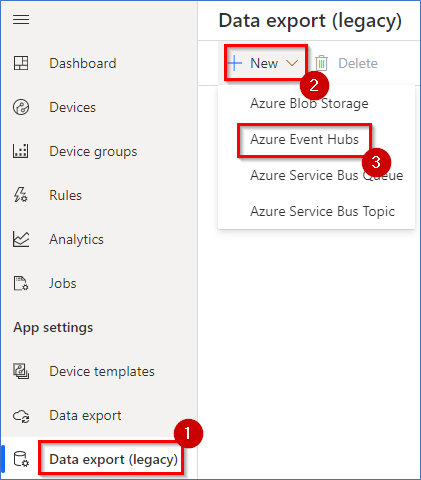
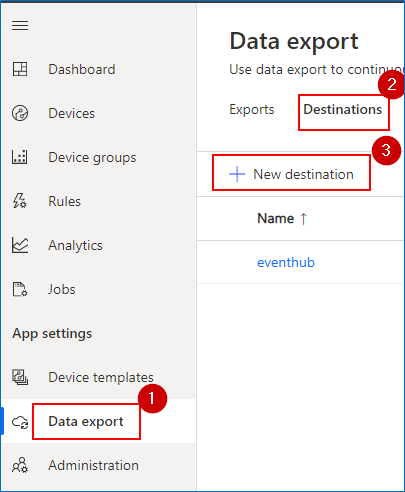
Updated readme-shell healthcare

diff --git a/HealthCare/Readme-shell.md b/HealthCare/Readme-shell.md
@@ -225,37 +225,63 @@
 
     ![copy device.](media/copy-device.png)
 	
-11.	**Close** the device popup and click on data export(legacy) tab.
-12.	**Click** New.
-13.	**Click** Azure Event Hubs.
+11.	**Open** Azure Portal.
+12.	**Search** “evh”. **Select** the event hub starting with name “evh-namespace”.
+
+	![select eventhub.](media/evh-selection.png)
+	 
+13.	**Open** Shared access policies tab under Settings menu.
+14.	**Select**  RootManageSharedAccessKey.
+
+    ![open access policies.](media/evh-access-policy.png)
+	
+15.	**Copy** Connection string-primary key and save it future use.
+
+	![copy connection string.](media/evh-connection-string.png)
+
+16.	**Close** the device popup **click** on data export tab.
+17.	**Click** Destinations and **select** New Destinations.
 
     ![data export.](media/data-export.png)
 	
-14.	**Select** Event hub namespace named ‘evh-namespace…’ from the dropdown.
-15.	**Select** Event hub name from the dropdown.
-16.	**Turn off** Devices and Device template features.
-17.	**Click** Save.
+18.	**Enter** eventhub as destination name.
+19.	**Select** Azure Event Hubs as Destination type.
+20.	**Paste** connection string saved in step 15 as connection string.
+21.	**Enter** “evh-iomtconnector-dev” as Event Hub.
+22.	**Click** Save.
 
-    ![data export2.](media/data-export2.png)
+	![destination.](media/destination.png)
 	
-18.	**Click** Dashboard.
-19.	**Click** Edit.
+23.	**Close** the device popup **click** on data export tab.
+24.	**Click** Exports and **select** New Exports .
+	
+	![data-export2.](media/data-export2.png)
+	
+25.	**Enter** eventhub as destination name.
+26.	**Select** Telemetry as Type of data to export.
+27.	**Select** eventhub as Destination from drop down.
+28.	**Click** Save.
+
+	![export.](media/export-tab.png)
+	
+29.	**Click** Dashboard.
+30.	**Click** Edit.
 
     ![device dashboard.](media/device-dashboard.png)
 
-20.	**Click** on configure button of Blood Pressure chart.
-21.	**Select** Device group from the dropdown.
-22.	**Select** Device Name from the dropdown.
-23.	**Click** “+ Capability” button.
-24.	**Select** systolicPressure kpi.
-25.	**Click** “+ Capability” button again.
-26.	**Select** distolicPressure kpi.
-27.	**Click** update.
+31.	**Click** on configure button of Blood Pressure chart.
+32.	**Select** Device group from the dropdown.
+33.	**Select** Device Name from the dropdown.
+34.	**Click** “+ Capability” button.
+35.	**Select** systolicPressure kpi.
+36.	**Click** “+ Capability” button again.
+37.	**Select** distolicPressure kpi.
+38.	**Click** update.
 
      ![device dashboard2.](media/device-dashboard2.png)
 
-28.	**Click** save.
-29.	Repeat above steps for remaining dashboard tiles and their respective kpi’s.
+39.	**Click** save.
+40.	Repeat above steps for remaining dashboard tiles and their respective kpi’s.
 
      ![device dashboard3.](media/device-dashboard3.png)
 
